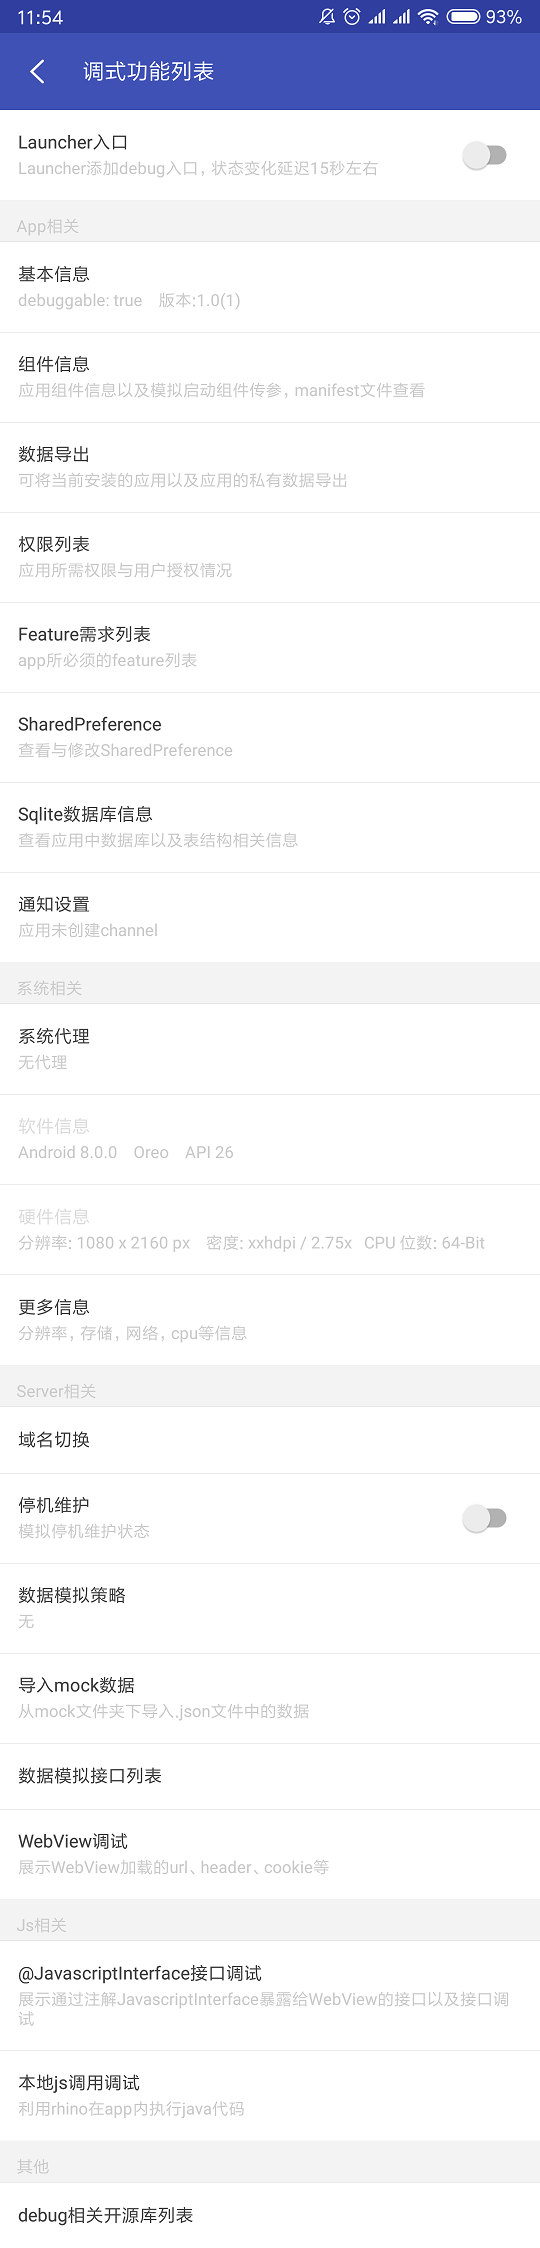
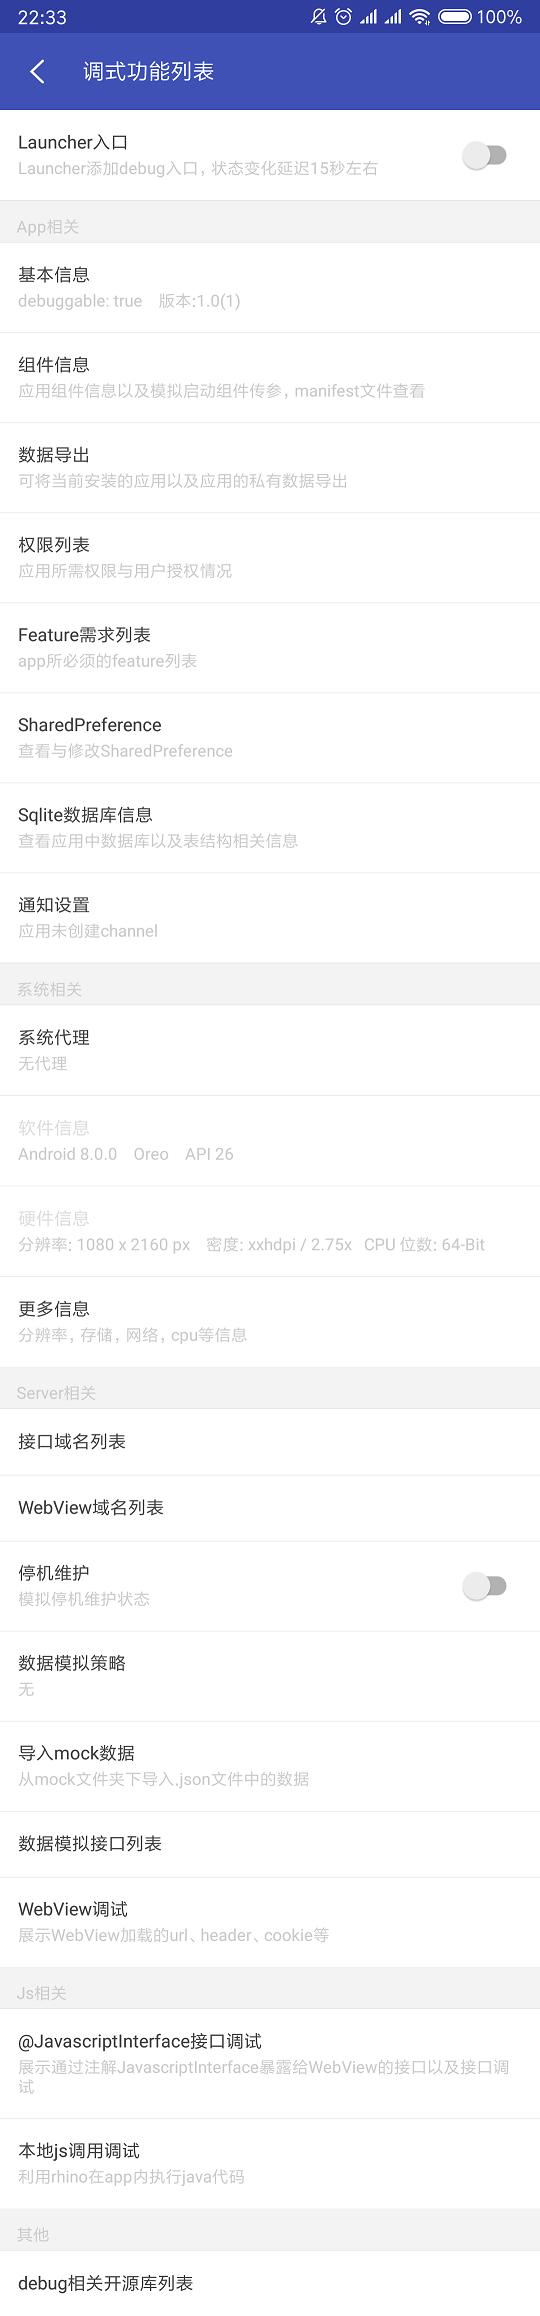
update readme

diff --git a/README.md b/README.md
@@ -97,7 +97,7 @@ if (dataCollectorInterceptor != null) {
 }
 ```
 
-`EnvironmentInterceptor`用于域名切换
+`HostInterceptor`用于域名切换
 
 `MockInterceptor`用于数据模拟
 
